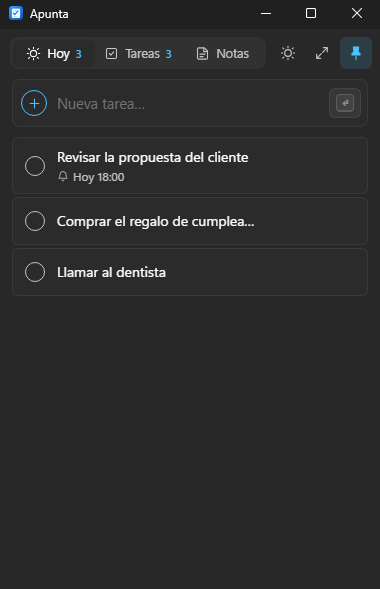
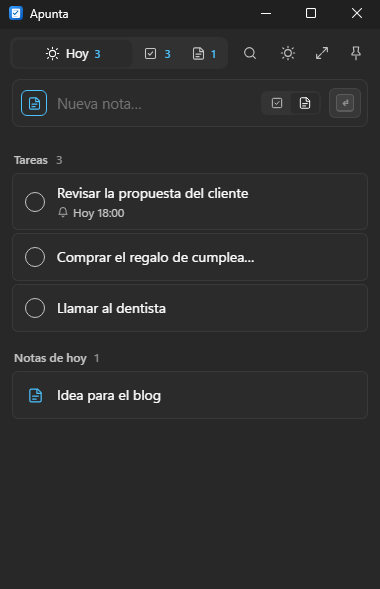
feat: tarea o nota en «Hoy» y buscador en modo compacto
- Selector Tarea/Nota en la barra de creación de Hoy (iconos en modo
  compacto, Tab para alternar); tarea por defecto y la elección se
  recuerda (ajuste today_kind).
- La vista Hoy incluye «Notas de hoy» (notas creadas hoy), con test.
- Buscador minimalista en modo compacto: lupa o Ctrl+F sustituye las
  pestañas por un campo; Esc lo cierra.
- Pestañas compactas: en ventana estrecha solo la activa muestra texto.
- Versión 1.2.0, CHANGELOG, README y captura actualizados.

diff --git a/src/main/App.svelte b/src/main/App.svelte
@@ -1,5 +1,6 @@
 <script lang="ts">
-  import { onMount } from "svelte";
+  import { onMount, tick } from "svelte";
+  import { fade } from "svelte/transition";
   import { listen } from "@tauri-apps/api/event";
   import { getCurrentWindow } from "@tauri-apps/api/window";
   import { api, type Counts, type Filter, type Item, type ItemInput, type List, type TagCount } from "../lib/api";
@@ -109,6 +110,21 @@
     return () => clearTimeout(t);
   });
 
+  // ---------- búsqueda del modo mínimo ----------
+  let miniSearch = $state(false);
+
+  async function openMiniSearch() {
+    miniSearch = true;
+    closeEditor();
+    await tick();
+    searchEl?.focus();
+  }
+
+  function closeMiniSearch() {
+    searchText = "";
+    miniSearch = false;
+  }
+
   // ---------- selección ----------
   function select(it: Item) {
     selectedId = it.id;
@@ -193,7 +209,16 @@
     if (e.ctrlKey && !e.shiftKey && k === "m") { e.preventDefault(); toggleMode(); return; }
     if (e.ctrlKey && !e.shiftKey && k === "p") { e.preventDefault(); toggleOnTop(); return; }
     if (e.ctrlKey && k === "n") { e.preventDefault(); newEl?.focus(); return; }
-    if (e.ctrlKey && k === "f") { e.preventDefault(); searchEl?.focus(); searchEl?.select(); return; }
+    if (e.ctrlKey && k === "f") {
+      e.preventDefault();
+      if (mini && !miniSearch) openMiniSearch();
+      else { searchEl?.focus(); searchEl?.select(); }
+      return;
+    }
+    if (e.key === "Escape" && mini && miniSearch && document.activeElement === searchEl) {
+      closeMiniSearch();
+      return;
+    }
     if (e.key === "Escape") {
       if (searchText && document.activeElement === searchEl) { searchText = ""; return; }
       if (isTyping(e)) (e.target as HTMLElement).blur();
@@ -240,7 +265,22 @@
 {#if mini}
   <div class="mini">
     <header class="mini-head">
-      <div class="tabs" role="tablist">
+      {#if miniSearch}
+        <div class="mini-search" in:fade={{ duration: 120 }}>
+          <Icon name="search" size={14} />
+          <input
+            type="search"
+            placeholder="Buscar tareas y notas…"
+            aria-label="Buscar"
+            bind:value={searchText}
+            bind:this={searchEl}
+          />
+          <button class="icon-btn close" title="Cerrar búsqueda  (Esc)" aria-label="Cerrar búsqueda" onclick={closeMiniSearch}>
+            <Icon name="x" size={14} />
+          </button>
+        </div>
+      {:else}
+      <div class="tabs" role="tablist" in:fade={{ duration: 120 }}>
         {#each MINI_TABS as t (t.view)}
           {@const n = counts[t.view]}
           <button
@@ -257,6 +297,10 @@
           </button>
         {/each}
       </div>
+      <button class="icon-btn tb-search" title="Buscar  (Ctrl+F)" aria-label="Buscar" onclick={openMiniSearch}>
+        <Icon name="search" size={16} />
+      </button>
+      {/if}
       <WindowToolbar />
     </header>
     {#if selectedItem}
@@ -269,11 +313,11 @@
         {filter}
         {lists}
         {selectedId}
-        searching={false}
+        {searching}
         {shortcut}
         {actions}
         compact
-        oncreated={(it) => { if (it.kind === "note") select(it); }}
+        oncreated={() => {}}
         bind:newInput={newEl}
       />
     {/if}
@@ -369,7 +413,22 @@
   .tab:hover { color: var(--text); }
   .tab.active { background: var(--card); color: var(--text); box-shadow: 0 1px 2px rgba(0, 0, 0, 0.15); }
   .tab .n { font-size: 11px; color: var(--accent); font-weight: 600; }
-  @media (max-width: 360px) { .tab span:not(.n) { display: none; } }
+  .tab :global(svg) { flex: none; }
+  /* Ventana estrecha: solo la pestaña activa muestra su nombre; las demás, icono y contador. */
+  @media (max-width: 440px) {
+    .tab:not(.active) { flex: 0 0 auto; padding: 5px 9px; }
+    .tab:not(.active) span:not(.n) { display: none; }
+  }
+  .tb-search { width: 32px; height: 32px; border-radius: 6px; flex: none; }
+  .mini-search {
+    flex: 1; min-width: 0; display: flex; align-items: center; gap: 6px; padding: 0 2px 0 10px; height: 34px;
+    background: var(--control); border: 1px solid var(--border); border-bottom: 2px solid var(--accent);
+    border-radius: 8px; color: var(--text-2);
+  }
+  .mini-search input { flex: 1; min-width: 0; border: none; background: transparent; padding: 4px 2px; }
+  .mini-search input:focus { border: none; padding-bottom: 4px; background: transparent; }
+  .mini-search input::-webkit-search-cancel-button { display: none; }
+  .mini-search .close { width: 26px; height: 26px; }
 
   .search {
     display: flex; align-items: center; gap: 6px; padding: 0 8px; width: 200px; flex: none;

diff --git a/src/lib/components/Composer.svelte b/src/lib/components/Composer.svelte
@@ -1,5 +1,6 @@
 <script lang="ts">
   // Barra para crear tareas o notas: clic en «+»/«Añadir» o Enter.
+  import { onMount, untrack } from "svelte";
   import { slide } from "svelte/transition";
   import Icon from "./Icon.svelte";
   import ReminderPicker from "./ReminderPicker.svelte";
@@ -13,11 +14,33 @@
     input = $bindable(),
   }: { filter: Filter; oncreated: (it: Item) => void; compact?: boolean; input?: HTMLInputElement } = $props();
 
+  // Tipo fijo según la vista; en Hoy, listas y etiquetas se puede elegir.
   const fixedKind = $derived<Kind | null>(
-    filter.view === "notes" ? "note" : filter.view === "list" || filter.view === "tag" ? null : "task"
+    filter.view === "notes" ? "note" : ["today", "list", "tag"].includes(filter.view) ? null : "task"
   );
   let chosenKind = $state<Kind>("task");
+  // Preferencia recordada para «Hoy» (tarea por defecto).
+  let todayKind: Kind = "task";
   const kind = $derived<Kind>(fixedKind ?? chosenKind);
+
+  onMount(async () => {
+    try {
+      const s = await api.settings();
+      todayKind = s.today_kind === "note" ? "note" : "task";
+      if (filter.view === "today") chosenKind = todayKind;
+    } catch {
+      /* sin backend */
+    }
+  });
+
+  function setKind(k: Kind) {
+    chosenKind = k;
+    if (filter.view === "today" && k !== todayKind) {
+      todayKind = k;
+      api.setSetting("today_kind", k).catch(() => {});
+    }
+    input?.focus();
+  }
 
   const defaultDue = () => (filter.view === "today" ? startOfDay().getTime() : filter.view === "upcoming" ? at(1, 0) : null);
 
@@ -33,6 +56,12 @@
   $effect(() => {
     void filter.view; void filter.listId; void filter.tag;
     reset();
+  });
+
+  // Al cambiar de vista: el tipo vuelve al preferido (Hoy) o a tarea.
+  $effect(() => {
+    const v = filter.view;
+    untrack(() => (chosenKind = v === "today" ? todayKind : "task"));
   });
 
   function reset() {
@@ -99,12 +128,32 @@
       onkeydown={(e) => {
         if (e.key === "Enter") { e.preventDefault(); create(); }
         if (e.key === "Escape") { reset(); e.currentTarget.blur(); }
+        if (e.key === "Tab" && !e.shiftKey && fixedKind == null) {
+          e.preventDefault();
+          setKind(chosenKind === "task" ? "note" : "task");
+        }
       }}
     />
     {#if fixedKind == null}
-      <div class="segmented kind">
-        <button class:active={chosenKind === "task"} onclick={() => (chosenKind = "task")}>Tarea</button>
-        <button class:active={chosenKind === "note"} onclick={() => (chosenKind = "note")}>Nota</button>
+      <div class="segmented kind" class:icons={compact} role="radiogroup" aria-label="Tipo">
+        <button
+          role="radio"
+          aria-checked={chosenKind === "task"}
+          class:active={chosenKind === "task"}
+          title="Crear tarea  (Tab para cambiar)"
+          onclick={() => setKind("task")}
+        >
+          {#if compact}<Icon name="tasks" size={14} />{:else}Tarea{/if}
+        </button>
+        <button
+          role="radio"
+          aria-checked={chosenKind === "note"}
+          class:active={chosenKind === "note"}
+          title="Crear nota  (Tab para cambiar)"
+          onclick={() => setKind("note")}
+        >
+          {#if compact}<Icon name="note" size={14} />{:else}Nota{/if}
+        </button>
       </div>
     {/if}
     <button class="add" class:ready={canSubmit} disabled={!canSubmit} onclick={create} title="Añadir (Enter)">
@@ -172,7 +221,7 @@
   .compact { margin: 0 12px 10px; }
   .compact .add { padding: 5px 6px; }
   .compact .extras { padding-left: 12px; }
-  .compact .kind button { padding: 2px 7px; }
+  .kind.icons button { display: grid; place-items: center; padding: 3px 7px; }
   .sep { width: 1px; height: 16px; background: var(--border-strong); margin: 0 4px; }
   .date { position: relative; display: inline-flex; }
   .date input { position: absolute; left: 0; bottom: 0; width: 1px; height: 1px; opacity: 0; pointer-events: none; padding: 0; border: 0; }

diff --git a/src/lib/components/ItemList.svelte b/src/lib/components/ItemList.svelte
@@ -63,11 +63,11 @@
         const sod = startOfDay().getTime();
         const overdue = tasks.filter((t) => startOfDay(t.dueAt ?? t.remindAt ?? 0).getTime() < sod);
         const rest = tasks.filter((t) => !overdue.includes(t));
-        if (!overdue.length) return [{ key: "today", label: "", tasks: rest, notes: [] }];
-        return [
-          { key: "overdue", label: "Vencidas", tone: "danger", tasks: overdue, notes: [] },
-          { key: "today", label: "Hoy", tasks: rest, notes: [] },
-        ];
+        const out: Section[] = [];
+        if (overdue.length) out.push({ key: "overdue", label: "Vencidas", tone: "danger", tasks: overdue, notes: [] });
+        out.push({ key: "today", label: overdue.length || notes.length ? "Tareas" : "", tasks: rest, notes: [] });
+        out.push({ key: "notes-today", label: "Notas de hoy", tasks: [], notes });
+        return out;
       }
       case "upcoming":
         return groupByDay(tasks, (t) => t.dueAt ?? t.remindAt ?? 0);

diff --git a/src-tauri/src/db.rs b/src-tauri/src/db.rs
@@ -22,6 +22,7 @@ pub const DEFAULTS: &[(&str, &str)] = &[
     ("always_on_top", "0"),
     ("size_full", "1040,700"),
     ("size_mini", "380,560"),
+    ("today_kind", "task"),
 ];
 
 /// Días que un elemento permanece en la papelera antes de borrarse definitivamente.
@@ -174,6 +175,18 @@ pub fn end_of_today_ms() -> i64 {
         .earliest()
         .map(|t| t.timestamp_millis())
         .unwrap_or_else(now_ms)
+}
+
+/// Inicio (00:00 local) del día que contiene `ts_ms`.
+pub fn start_of_day(ts_ms: i64) -> i64 {
+    use chrono::{Local, TimeZone};
+    Local
+        .timestamp_millis_opt(ts_ms)
+        .single()
+        .and_then(|t| t.date_naive().and_hms_opt(0, 0, 0))
+        .and_then(|d| Local.from_local_datetime(&d).earliest())
+        .map(|t| t.timestamp_millis())
+        .unwrap_or(ts_ms - DAY_MS + 1)
 }
 
 // ---------- apertura y migraciones ----------
@@ -352,10 +365,16 @@ pub fn query_items(c: &Connection, f: &Filter, end_of_today: i64) -> R<Vec<Item>
         order = "done, updated_at DESC";
     } else {
         match f.view.as_str() {
+            // Tareas que vencen hoy o antes + notas creadas hoy («Notas de hoy»).
             "today" => {
-                wh.push("kind='task' AND done=0 AND COALESCE(due_at, remind_at) <= ?1".into());
+                wh.push(
+                    "done=0 AND ((kind='task' AND COALESCE(due_at, remind_at) <= ?1)
+                       OR (kind='note' AND created_at >= ?2))"
+                        .into(),
+                );
                 ps.push(Value::Integer(end_of_today));
-                order = "COALESCE(due_at, remind_at), created_at";
+                ps.push(Value::Integer(start_of_day(end_of_today)));
+                order = "kind='note', COALESCE(due_at, remind_at), created_at";
             }
             "upcoming" => {
                 wh.push("kind='task' AND done=0 AND COALESCE(due_at, remind_at) > ?1".into());
@@ -882,6 +901,28 @@ mod tests {
         let x = save_item(&c, &task("X", None, "none"), 1).unwrap();
         delete_forever(&c, x.id).unwrap();
         assert!(get_item(&c, x.id).unwrap().is_none());
+    }
+
+    #[test]
+    fn today_includes_notes_created_today() {
+        let c = open_in_memory().unwrap();
+        let eot = end_of_today_ms();
+        let sod = start_of_day(eot);
+        assert!(sod < eot && eot - sod < DAY_MS + 3_600_000);
+        let mut note = task("Idea de hoy", None, "none");
+        note.kind = "note".into();
+        let today = save_item(&c, &note, sod + 1_000).unwrap();
+        let mut old = note.clone();
+        old.title = "Idea de ayer".into();
+        save_item(&c, &old, sod - 1_000).unwrap();
+        let mut due = task("Tarea de hoy", None, "none");
+        due.due_at = Some(sod);
+        save_item(&c, &due, 1).unwrap();
+        let items = query_items(&c, &f("today"), eot).unwrap();
+        let titles: Vec<&str> = items.iter().map(|i| i.title.as_str()).collect();
+        assert_eq!(titles, vec!["Tarea de hoy", "Idea de hoy"]); // tareas primero
+        assert_eq!(items[1].id, today.id);
+        assert_eq!(counts(&c, eot).unwrap().today, 1); // el contador solo cuenta tareas
     }
 
     #[test]

diff --git a/README.md b/README.md
@@ -22,7 +22,7 @@ Ligera (unos 2 MB), moderna y sin cuentas: todo se guarda en tu equipo.
 - **Recordatorios** con notificación de Windows, ventana de aviso y sonido. Pueden repetirse (cada día, días laborables, semana, mes o año) y posponerse 5 min, 1 h o hasta mañana.
 - **Organización** con listas de colores, etiquetas, búsqueda y elementos fijados.
 - **Papelera** que guarda lo eliminado 10 días por si necesitas recuperarlo.
-- **Modo mínimo**: una ventana compacta tipo widget con Hoy, Tareas y Notas.
+- **Modo mínimo**: una ventana compacta tipo widget con Hoy, Tareas y Notas, buscador y selector de tarea o nota.
 - **Anclar la ventana** encima de todas las demás, en cualquiera de los dos modos.
 - **Diseño Windows 11** con efecto Mica. Tema oscuro por defecto y claro con un clic en el sol o la luna.
 - **Bandeja del sistema e inicio con Windows**, para que los avisos lleguen aunque cierres la ventana.
@@ -46,7 +46,8 @@ Requisitos: Windows 11 de 64 bits. No está probada en Windows 10.
 | --- | --- |
 | `Ctrl+Alt+N` | Captura rápida (desde cualquier programa) |
 | `Ctrl+N` | Escribir una tarea o nota nueva |
-| `Ctrl+F` | Buscar |
+| `Ctrl+F` | Buscar (también en modo mínimo) |
+| `Tab` | Alternar entre tarea y nota al escribir en Hoy, listas o etiquetas |
 | `Espacio` | Completar la tarea seleccionada |
 | `Enter` | Editar el título del elemento seleccionado |
 | `Supr` | Mover a la papelera (con opción de deshacer) |

diff --git a/CHANGELOG.md b/CHANGELOG.md
@@ -2,6 +2,17 @@
 
 Todos los cambios relevantes de Apunta se documentan aquí. El formato sigue [Keep a Changelog](https://keepachangelog.com/es-ES/1.1.0/) y el proyecto usa [versionado semántico](https://semver.org/lang/es/).
 
+## [1.2.0] - 2026-11-18
+
+### Añadido
+- **Tarea o nota en «Hoy»**: la barra de creación de Hoy tiene un selector Tarea/Nota (solo iconos en modo compacto, con `Tab` para alternar). Tarea viene por defecto y, si eliges Nota, se recuerda también tras reiniciar.
+- **«Notas de hoy»**: la vista Hoy muestra, debajo de las tareas, las notas creadas hoy.
+- **Buscador en modo compacto**: un icono de lupa (o `Ctrl+F`) cambia las pestañas por un campo de búsqueda; `Esc` lo cierra.
+
+### Cambiado
+- En modo compacto y ventana estrecha, solo la pestaña activa muestra su nombre; las demás muestran icono y contador.
+- En modo compacto, crear una nota ya no abre el editor, para que la captura siga siendo rápida.
+
 ## [1.1.0] - 2026-11-18
 
 ### Añadido
@@ -50,5 +61,6 @@ Primera versión estable.
 ### Distribución
 - Instalador NSIS para el usuario actual (sin permisos de administrador) y versión portable en .zip, que guarda los datos junto al ejecutable.
 
+[1.2.0]: https://github.com/hujeanpaes/apunta/releases/tag/v1.2.0
 [1.1.0]: https://github.com/hujeanpaes/apunta/releases/tag/v1.1.0
 [1.0.0]: https://github.com/hujeanpaes/apunta/releases/tag/v1.0.0
